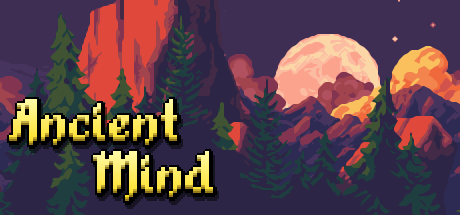
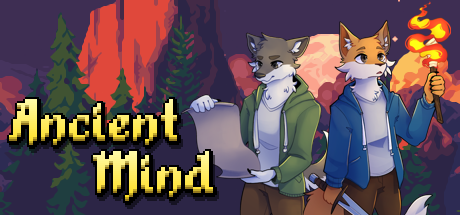
Updated characters art

diff --git a/profile/README.md b/profile/README.md
@@ -74,9 +74,19 @@ Finding all secrets is not required to finish the levels, but finding all chests
 
 ![Header-capsule](img/header-capsule.png)
 
-### Main character
+### Library capsule
 
-![Main-character](img/main-character.png)
+![Library-capsule](img/library-capsule.png)
+
+### Small capsule
+
+![Small-capsule](img/small-capsule.png)
+
+### Characters
+
+![Character-sprite](img/character-sprite.png)
+
+![Characters-art](img/characters-art.png)
 
 ### Steam Next Fest promo images
 
